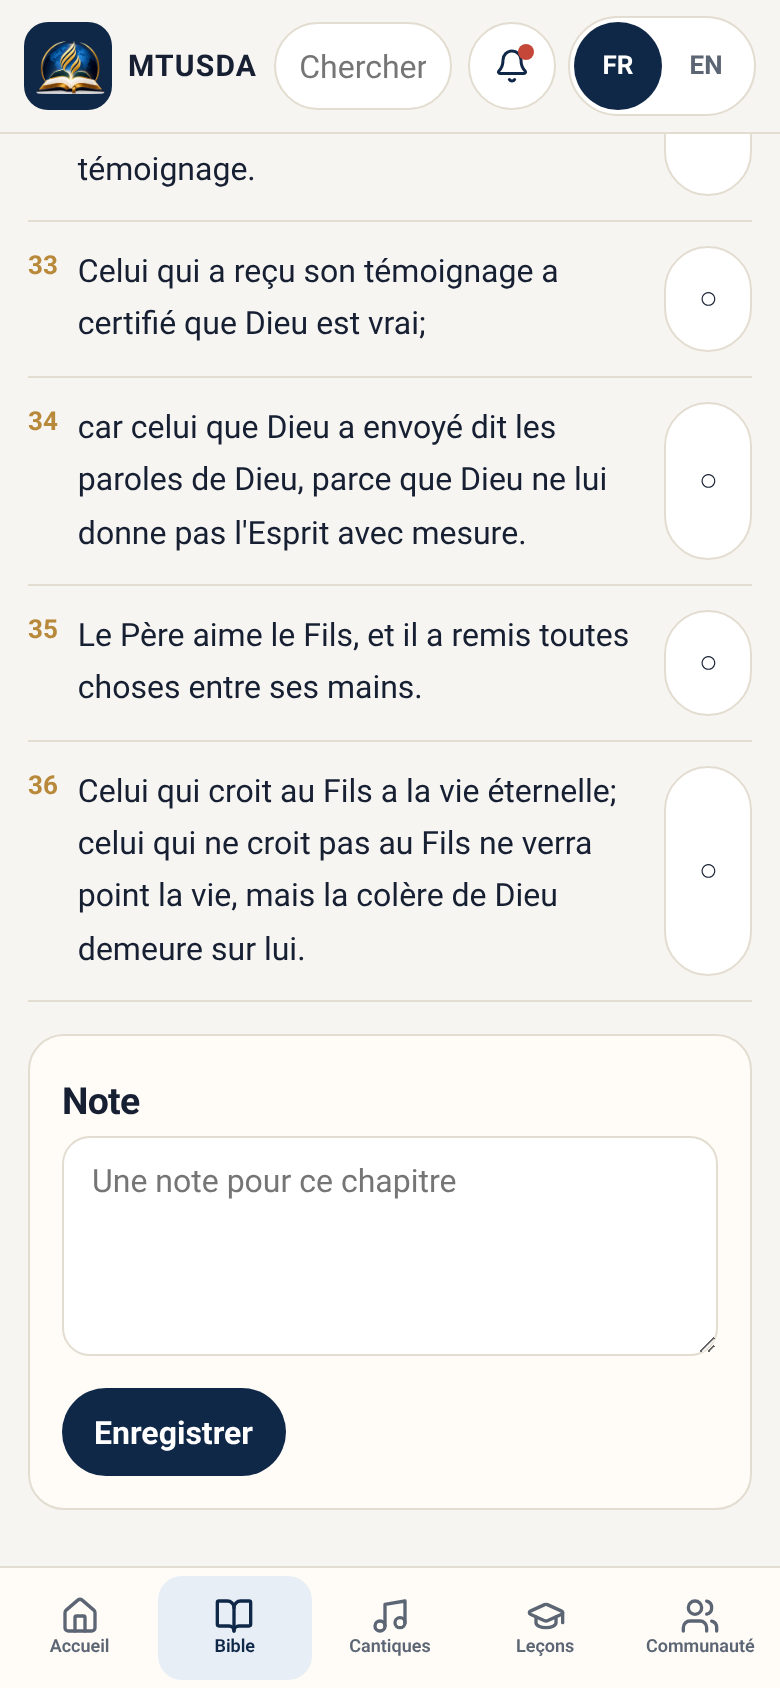
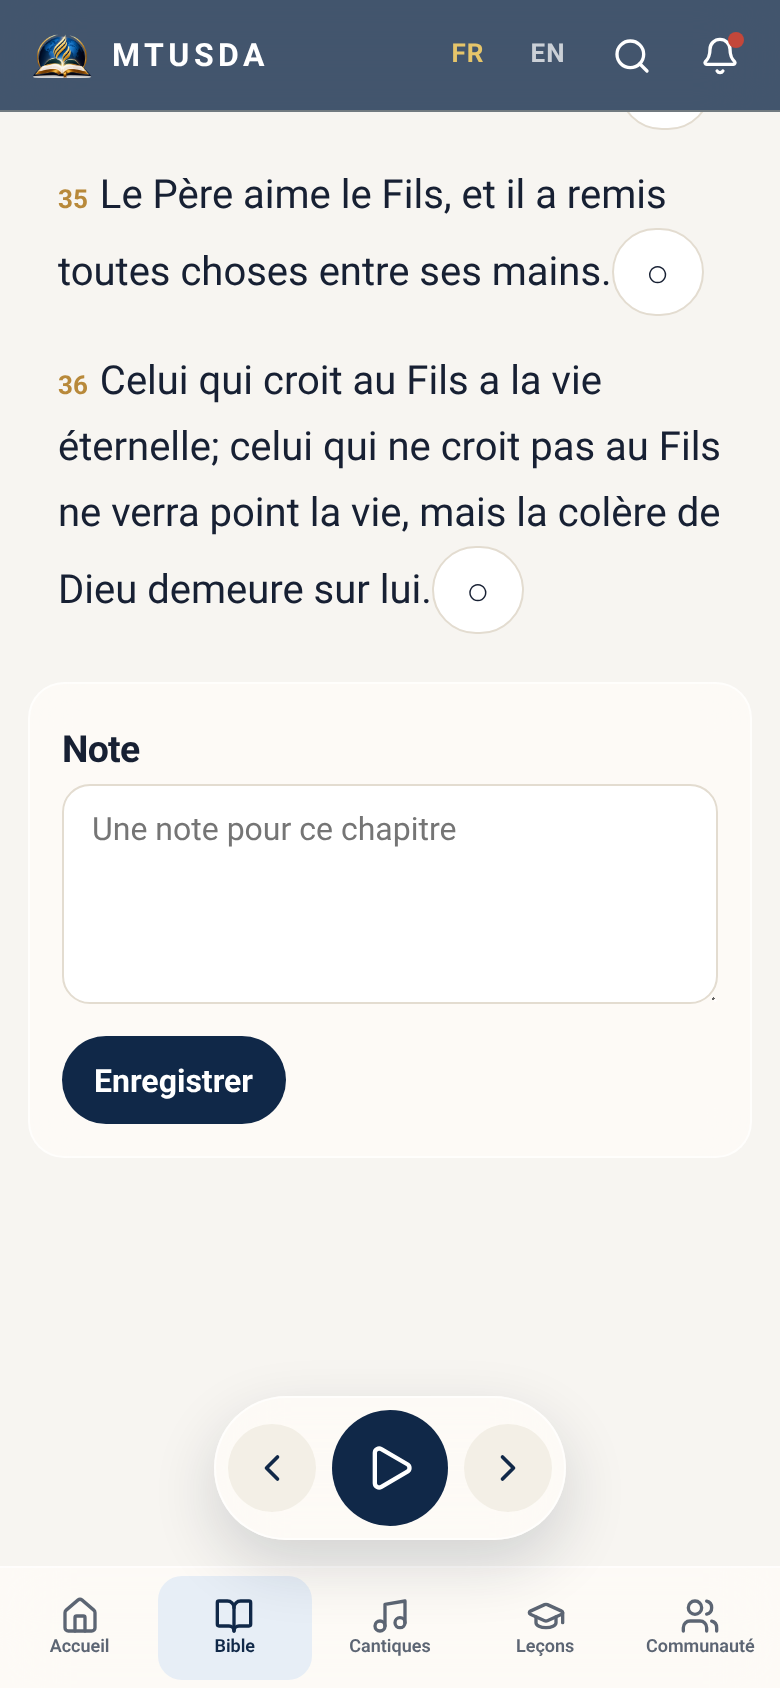
fix: stand alone on the home screen and clear the player
iOS still needs apple-mobile-web-app-capable, which Next does not emit.
Pad the hymn and Bible readers so the last line scrolls above the player.

diff --git a/app/manifest.ts b/app/manifest.ts
@@ -3,14 +3,18 @@ export default function manifest(): MetadataRoute.Manifest {
   return {
     name: "MTUSDA Kinshasa",
     short_name: "MTUSDA",
+    description: "Bible, cantiques, leçons et communauté MTUSDA.",
+    id: "/",
+    scope: "/",
     start_url: "/",
     display: "standalone",
     background_color: "#102848",
     theme_color: "#102848",
     lang: "fr",
     icons: [
-      { src: "/icon-192.png", sizes: "192x192", type: "image/png" },
-      { src: "/icon-512.png", sizes: "512x512", type: "image/png" },
+      { src: "/icon-192.png", sizes: "192x192", type: "image/png", purpose: "any" },
+      { src: "/icon-512.png", sizes: "512x512", type: "image/png", purpose: "any" },
+      { src: "/apple-touch-icon.png", sizes: "180x180", type: "image/png", purpose: "any" },
     ],
   }
 }

diff --git a/app/cantiques/[slug]/page.tsx b/app/cantiques/[slug]/page.tsx
@@ -45,7 +45,7 @@ export default function HymnPage() {
   const prev = hymns[(index - 1 + hymns.length) % hymns.length]
   const next = hymns[(index + 1) % hymns.length]
   return (
-    <article style={{ paddingBottom: 96 }}>
+    <article className="hymn-sheet">
       <div className="reader-bar">
         <Link href="/cantiques" aria-label={t.hymns}><ChevronLeft size={20} /></Link>
         <b style={{ flex: 1, minWidth: 0, overflow: "hidden", textOverflow: "ellipsis", whiteSpace: "nowrap" }}>

diff --git a/app/layout.tsx b/app/layout.tsx
@@ -12,6 +12,8 @@ export const metadata: Metadata = {
   description: "Bible, cantiques, leçons et communauté de l'église adventiste MTUSDA à Kinshasa.",
   applicationName: "MTUSDA",
   appleWebApp: { capable: true, title: "MTUSDA", statusBarStyle: "black-translucent" },
+  // iOS still keys off this name. Next only emits mobile-web-app-capable.
+  other: { "apple-mobile-web-app-capable": "yes" },
   icons: { icon: "/icon-192.png", apple: "/apple-touch-icon.png" },
 }
 

diff --git a/app/bible/[book]/[chapter]/page.tsx b/app/bible/[book]/[chapter]/page.tsx
@@ -92,7 +92,7 @@ export default function ChapterPage() {
   }
 
   return (
-    <article className="reader" data-testid="chapter" style={{ paddingBottom: 96 }}>
+    <article className="reader" data-testid="chapter">
       <div className="reader-bar">
         <Link className="pill" href={`/bible/${book.id.toLowerCase()}`}>{name} {chapter}</Link>
         <button type="button" className={version === "lsg" ? "pill on" : "pill"} onClick={() => setLocale("fr")}>LSG</button>

diff --git a/app/globals.css b/app/globals.css
@@ -556,6 +556,13 @@ textarea { min-height: 110px; resize: vertical }
   .tile span { font-size: 16px; letter-spacing: 0; }
 }
 
+.reader,
+.hymn-sheet {
+  /* Phone: the fixed player overlaps the scrollport by ~85px and the tab bar
+     sits just under it. This padding lets the last verse / last stanza scroll
+     fully above both. */
+  padding-bottom: 176px;
+}
 .reader-bar {
   display: flex;
   align-items: center;
